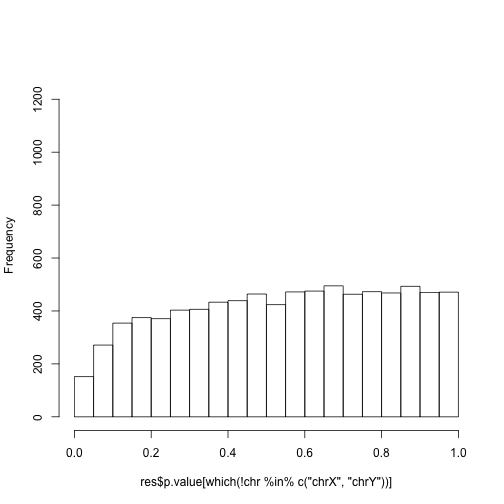
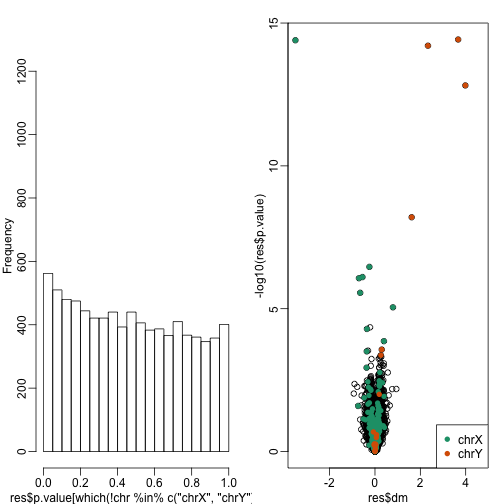
adding adjusting_with_factor_analysis to book

diff --git a/manuscript/adjusting_with_factor_analysis.md b/manuscript/adjusting_with_factor_analysis.md
@@ -46,14 +46,7 @@ icolors <- colorRampPalette(rev(brewer.pal(11,"RdYlBu")))(100)
 ```
 
 ```r
-mypar2(1,2)
-```
-
-```
-## Error in eval(expr, envir, enclos): could not find function "mypar2"
-```
-
-```r
+mypar(1,2)
 image(t(mat),xaxt="n",yaxt="n",col=icolors)
 ```
 
@@ -98,14 +91,7 @@ Here is a plot of dates for each sample, with color representing month:
 
 ```r
 times <-sampleInfo$date 
-mypar2(1,1)
-```
-
-```
-## Error in eval(expr, envir, enclos): could not find function "mypar2"
-```
-
-```r
+mypar(1,1)
 o=order(times)
 plot(times[o],pch=21,bg=as.fumeric(batch)[o],ylab="date")
 ```
@@ -155,19 +141,12 @@ plot(s$d^2/sum(s$d^2),ylab="% variance explained",xlab="Principal component")
 In fact, the first six or so PC seem to be at least partially driven by date:
 
 ```r
-mypar2(3,4)
-```
-
-```
-## Error in eval(expr, envir, enclos): could not find function "mypar2"
-```
-
-```r
+mypar(3,4)
 for(i in 1:12)
 boxplot(split(s$v[,i],times))
 ```
 
-![plot of chunk unnamed-chunk-6](images/adjusting_with_factor_analysis-unnamed-chunk-6-1.png) ![plot of chunk unnamed-chunk-6](images/adjusting_with_factor_analysis-unnamed-chunk-6-2.png) ![plot of chunk unnamed-chunk-6](images/adjusting_with_factor_analysis-unnamed-chunk-6-3.png) ![plot of chunk unnamed-chunk-6](images/adjusting_with_factor_analysis-unnamed-chunk-6-4.png) ![plot of chunk unnamed-chunk-6](images/adjusting_with_factor_analysis-unnamed-chunk-6-5.png) ![plot of chunk unnamed-chunk-6](images/adjusting_with_factor_analysis-unnamed-chunk-6-6.png) ![plot of chunk unnamed-chunk-6](images/adjusting_with_factor_analysis-unnamed-chunk-6-7.png) ![plot of chunk unnamed-chunk-6](images/adjusting_with_factor_analysis-unnamed-chunk-6-8.png) ![plot of chunk unnamed-chunk-6](images/adjusting_with_factor_analysis-unnamed-chunk-6-9.png) ![plot of chunk unnamed-chunk-6](images/adjusting_with_factor_analysis-unnamed-chunk-6-10.png) ![plot of chunk unnamed-chunk-6](images/adjusting_with_factor_analysis-unnamed-chunk-6-11.png) ![plot of chunk unnamed-chunk-6](images/adjusting_with_factor_analysis-unnamed-chunk-6-12.png) 
+![plot of chunk unnamed-chunk-6](images/adjusting_with_factor_analysis-unnamed-chunk-6-1.png) 
 
 
 What happens if we simply remove the top six PC from the data and then perform a t-test? 
@@ -184,27 +163,16 @@ This does remove the batch effect, but it seems we have also removed much of the
 
 
 ```r
-mypar2(1,2)
-```
-
-```
-## Error in eval(expr, envir, enclos): could not find function "mypar2"
-```
-
-```r
+mypar(1,2)
 hist(res$p.value[which(!chr%in%c("chrX","chrY") )],main="",ylim=c(0,1300))
-```
 
-![plot of chunk unnamed-chunk-8](images/adjusting_with_factor_analysis-unnamed-chunk-8-1.png) 
-
-```r
 plot(res$dm,-log10(res$p.value))
 points(res$dm[which(chr=="chrX")],-log10(res$p.value[which(chr=="chrX")]),col=1,pch=16)
 points(res$dm[which(chr=="chrY")],-log10(res$p.value[which(chr=="chrY")]),col=2,pch=16,xlab="Effect size",ylab="-log10(p-value)")
 legend("bottomright",c("chrX","chrY"),col=1:2,pch=16)
 ```
 
-![plot of chunk unnamed-chunk-8](images/adjusting_with_factor_analysis-unnamed-chunk-8-2.png) 
+![plot of chunk unnamed-chunk-8](images/adjusting_with_factor_analysis-unnamed-chunk-8-1.png) 
 
 <a name="sva"></a>
 ### Factor Analysis
@@ -221,7 +189,9 @@ library(sva)
 ```
 
 ```
-## Error in library(sva): there is no package called 'sva'
+## Loading required package: mgcv
+## Loading required package: nlme
+## This is mgcv 1.8-6. For overview type 'help("mgcv-package")'.
 ```
 
 ```r
@@ -268,31 +238,14 @@ svafit <- sva(geneExpression,mod)
 ```
 
 ```
-## Error in eval(expr, envir, enclos): could not find function "sva"
+## Number of significant surrogate variables is:  5 
+## Iteration (out of 5 ):1  2  3  4  5
 ```
 
 ```r
 svaX<-model.matrix(~sex+svafit$sv)
-```
-
-```
-## Error in eval(expr, envir, enclos): object 'svafit' not found
-```
-
-```r
 lmfit <- lmFit(geneExpression,svaX)
-```
-
-```
-## Error in lmFit(geneExpression, svaX): object 'svaX' not found
-```
-
-```r
 tt<- lmfit$coef[,2]*sqrt(lmfit$df.residual)/(2*lmfit$sigma)
-```
-
-```
-## Error in eval(expr, envir, enclos): object 'lmfit' not found
 ```
 
 There is an observable improvement over all other approaches:
@@ -301,34 +254,16 @@ There is an observable improvement over all other approaches:
 ```r
 res <- data.frame(dm= -lmfit$coef[,2],
                   p.value=2*(1-pt(abs(tt),lmfit$df.residual[1]) ) )
-```
-
-```
-## Error in data.frame(dm = -lmfit$coef[, 2], p.value = 2 * (1 - pt(abs(tt), : object 'lmfit' not found
-```
-
-```r
-mypar2(1,2)
-```
-
-```
-## Error in eval(expr, envir, enclos): could not find function "mypar2"
-```
-
-```r
+mypar(1,2)
 hist(res$p.value[which(!chr%in%c("chrX","chrY") )],main="",ylim=c(0,1300))
-```
 
-![plot of chunk unnamed-chunk-11](images/adjusting_with_factor_analysis-unnamed-chunk-11-1.png) 
-
-```r
 plot(res$dm,-log10(res$p.value))
 points(res$dm[which(chr=="chrX")],-log10(res$p.value[which(chr=="chrX")]),col=1,pch=16)
 points(res$dm[which(chr=="chrY")],-log10(res$p.value[which(chr=="chrY")]),col=2,pch=16,xlab="Effect size",ylab="-log10(p-value)")
 legend("bottomright",c("chrX","chrY"),col=1:2,pch=16)
 ```
 
-![plot of chunk unnamed-chunk-11](images/adjusting_with_factor_analysis-unnamed-chunk-11-2.png) 
+![plot of chunk unnamed-chunk-11](images/adjusting_with_factor_analysis-unnamed-chunk-11-1.png) 
 
 
 And here is a decompose of the data into sex effects, surrogate variables, and independent noise:
@@ -336,38 +271,10 @@ And here is a decompose of the data into sex effects, surrogate variables, and i
 
 ```r
 Batch<- lmfit$coef[geneindex,3:7]%*%t(svaX[,3:7])
-```
-
-```
-## Error in eval(expr, envir, enclos): object 'lmfit' not found
-```
-
-```r
 Signal<-lmfit$coef[geneindex,1:2]%*%t(svaX[,1:2])
-```
-
-```
-## Error in eval(expr, envir, enclos): object 'lmfit' not found
-```
-
-```r
 error <- geneExpression[geneindex,]-Signal-Batch
-```
-
-```
-## Error in eval(expr, envir, enclos): object 'Signal' not found
-```
-
-```r
 ##demean for plot
 Signal <-Signal-rowMeans(Signal)
-```
-
-```
-## Error in eval(expr, envir, enclos): object 'Signal' not found
-```
-
-```r
 mat <- geneExpression[geneindex,]-rowMeans(geneExpression[geneindex,])
 mypar(1,4,mar = c(2.75, 4.5, 2.6, 1.1))
 image(t(mat),col=icolors,zlim=c(-5,5),xaxt="n",yaxt="n")
@@ -382,7 +289,7 @@ image(t(Signal),col=icolors,zlim=c(-5,5),xaxt="n",yaxt="n")
 ```
 
 ```
-## Error in t(Signal): object 'Signal' not found
+## Error in image.default(t(Signal), col = icolors, zlim = c(-5, 5), xaxt = "n", : object 'icolors' not found
 ```
 
 ```r
@@ -390,7 +297,7 @@ image(t(Batch),col=icolors,zlim=c(-5,5),xaxt="n",yaxt="n")
 ```
 
 ```
-## Error in t(Batch): object 'Batch' not found
+## Error in image.default(t(Batch), col = icolors, zlim = c(-5, 5), xaxt = "n", : object 'icolors' not found
 ```
 
 ```r
@@ -398,7 +305,7 @@ image(t(error),col=icolors,zlim=c(-5,5),xaxt="n",yaxt="n")
 ```
 
 ```
-## Error in t(error): object 'error' not found
+## Error in image.default(t(error), col = icolors, zlim = c(-5, 5), xaxt = "n", : object 'icolors' not found
 ```
 
 
